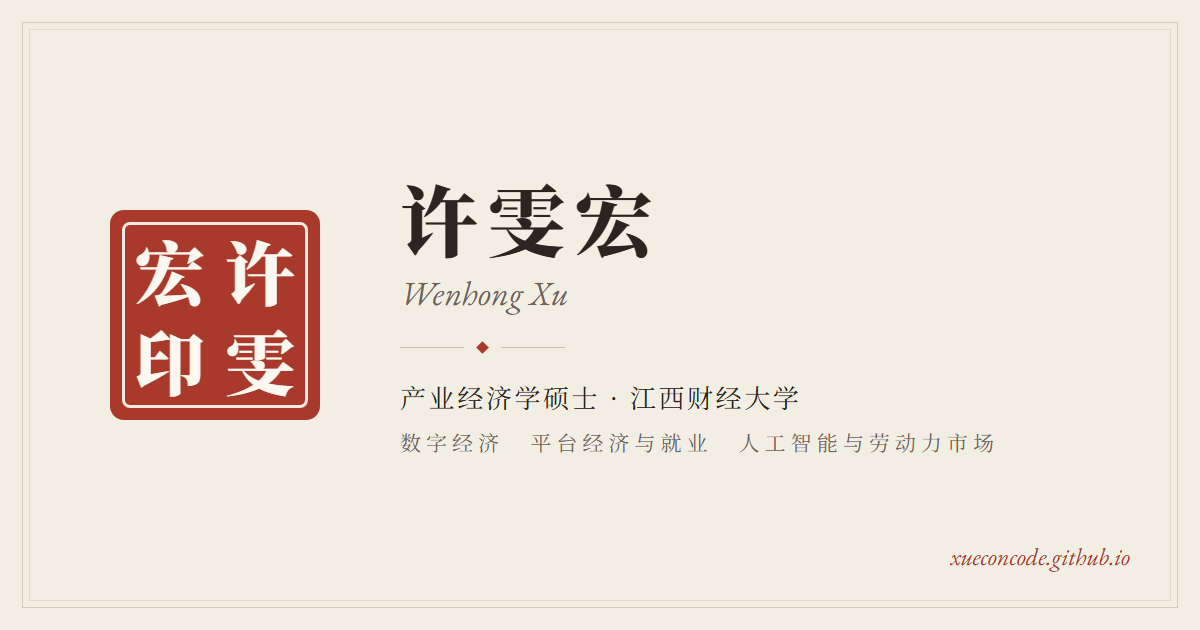
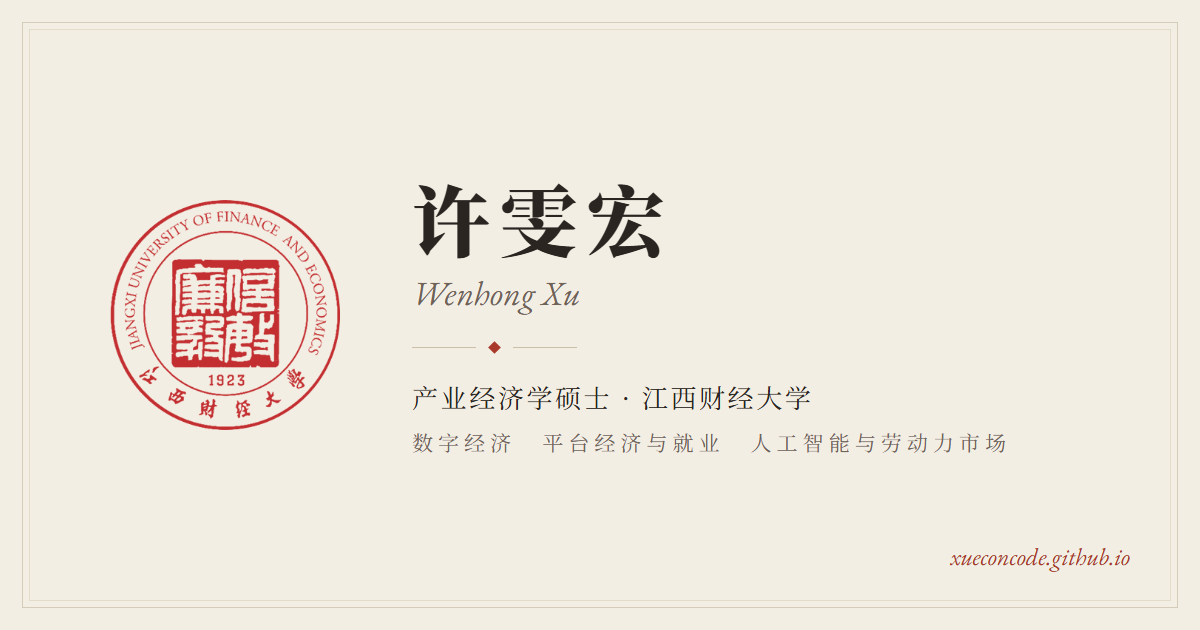
首页与简历页改用校徽代替名章
- 新增 Emblem 组件：src/assets/emblem.png 作蒙版，颜色取 --emblem（校徽红 / 夜读浅红），缺图时退回名章
- 尺寸：首页 9rem（约为姓名宽度的三分之二），手机 6.5rem；简历页 6rem，与照片同宽，窄屏隐藏
- 分享卡片 og.png 同步换成校徽；简历页身份行不再把校名拆开换行

diff --git a/src/styles/tokens.css b/src/styles/tokens.css
@@ -14,6 +14,7 @@
   --frame: #e4dccb; /* 书页内框 */
   --seal: #a93a2b; /* ★ 朱砂：印章与强调色，换色改这里（夜读模式下另有一处） */
   --seal-ink: #fbf8f1; /* 印章上的字 */
+  --emblem: #c32e31; /* 校徽标准红（src/assets/emblem.png 只作蒙版，颜色由这里决定） */
   color-scheme: light;
 
   /* 字体：中文宋体（思源宋体），西文与数字 EB Garamond，引文楷体（系统自带） */
@@ -83,6 +84,7 @@
     --frame: #2c2722;
     --seal: #d6664f;
     --seal-ink: #fbf3ea;
+    --emblem: #d86c6c;
     color-scheme: dark;
   }
 }
@@ -98,5 +100,6 @@
   --frame: #2c2722;
   --seal: #d6664f;
   --seal-ink: #fbf3ea;
+  --emblem: #d86c6c;
   color-scheme: dark;
 }

diff --git a/src/styles/print.css b/src/styles/print.css
@@ -21,6 +21,7 @@
     --frame: #ddd;
     --seal: #a93a2b;
     --seal-ink: #fff;
+    --emblem: #c32e31;
     --text-xs: 8pt;
     --text-sm: 9pt;
     --text-base: 10.5pt;

diff --git a/README.md b/README.md
@@ -2,7 +2,7 @@
 
 中英双语的个人学术主页，用 [Astro](https://astro.build) 生成静态网站，部署在 GitHub Pages。
 
-- 「书卷人文」风格：宣纸底色、思源宋体排版、朱砂名章，板块以壹、贰、叁编号
+- 「书卷人文」风格：宣纸底色、思源宋体排版、校徽与朱砂小印，板块以壹、贰、叁编号
 - 中文版在 `/`，英文版在 `/en/`，右上角可以切换语言
 - 页面包括：首页、研究（论文与报告）、项目、文章、可打印简历
 - 支持夜读（深色）模式和数学公式（KaTeX），代码自动高亮
@@ -16,7 +16,8 @@
 | 论文、工作论文、报告 | `src/data/publications.yaml` |
 | 项目 | `src/content/projects/zh/*.md` 与 `en/*.md` |
 | 文章 | `src/content/writing/zh/*.md` 与 `en/*.md` |
-| 名章文字 | 默认取中文名（三字名补「印」，两字名补「之印」）；想自定义就在 `profile.yaml` 加一行 `seal: 四个字` |
+| 校徽 | `src/assets/emblem.png`（透明底的单色图），显示在首页、简历页和分享卡片上；删掉这张图就换回朱砂名章。颜色由 `src/styles/tokens.css` 的 `--emblem` 决定（日间、夜读各一处） |
+| 名章文字 | 页眉、页脚的小印（没有校徽图时首页也用它）默认取中文名（三字名补「印」，两字名补「之印」）；想自定义就在 `profile.yaml` 加一行 `seal: 四个字` |
 | 简历 PDF | 放到 `public/cv/`，并在 `profile.yaml` 的 `cv` 中填写路径 |
 | 论文 PDF | 放到 `public/papers/`，在 `publications.yaml` 的 `links.pdf` 中填写 `/papers/文件名.pdf` |
 | 朱砂色（强调色） | `src/styles/tokens.css` 中的 `--seal`（日间、夜读各一处） |
@@ -71,7 +72,7 @@ npm install        # 第一次运行前安装依赖
 npm run dev        # 本地预览：http://localhost:4321 ，改完保存即自动刷新
 npm run build      # 检查内容并生成网站到 dist/
 npm run preview    # 预览 build 的结果
-npm run og         # 重新生成社交分享卡片 public/og.png（改了姓名、身份后运行）
+npm run og         # 重新生成社交分享卡片 public/og.png（改了姓名、身份或校徽后运行）
 ```
 
 ## 发布
@@ -100,7 +101,7 @@ git push
    ├─ site.config.ts              GitHub 用户名与网址
    ├─ data/                       ★ profile.yaml、publications.yaml
    ├─ content/                    ★ 项目与文章（Markdown）
-   ├─ assets/                     项目与文章图片
+   ├─ assets/                     照片、校徽，以及项目与文章图片
    ├─ integrations/cjk-subset.ts  构建后按全站用字裁剪中文字体
    ├─ content.config.ts           内容字段校验规则
    ├─ i18n/                       界面文案（导航、按钮等）与语言工具
